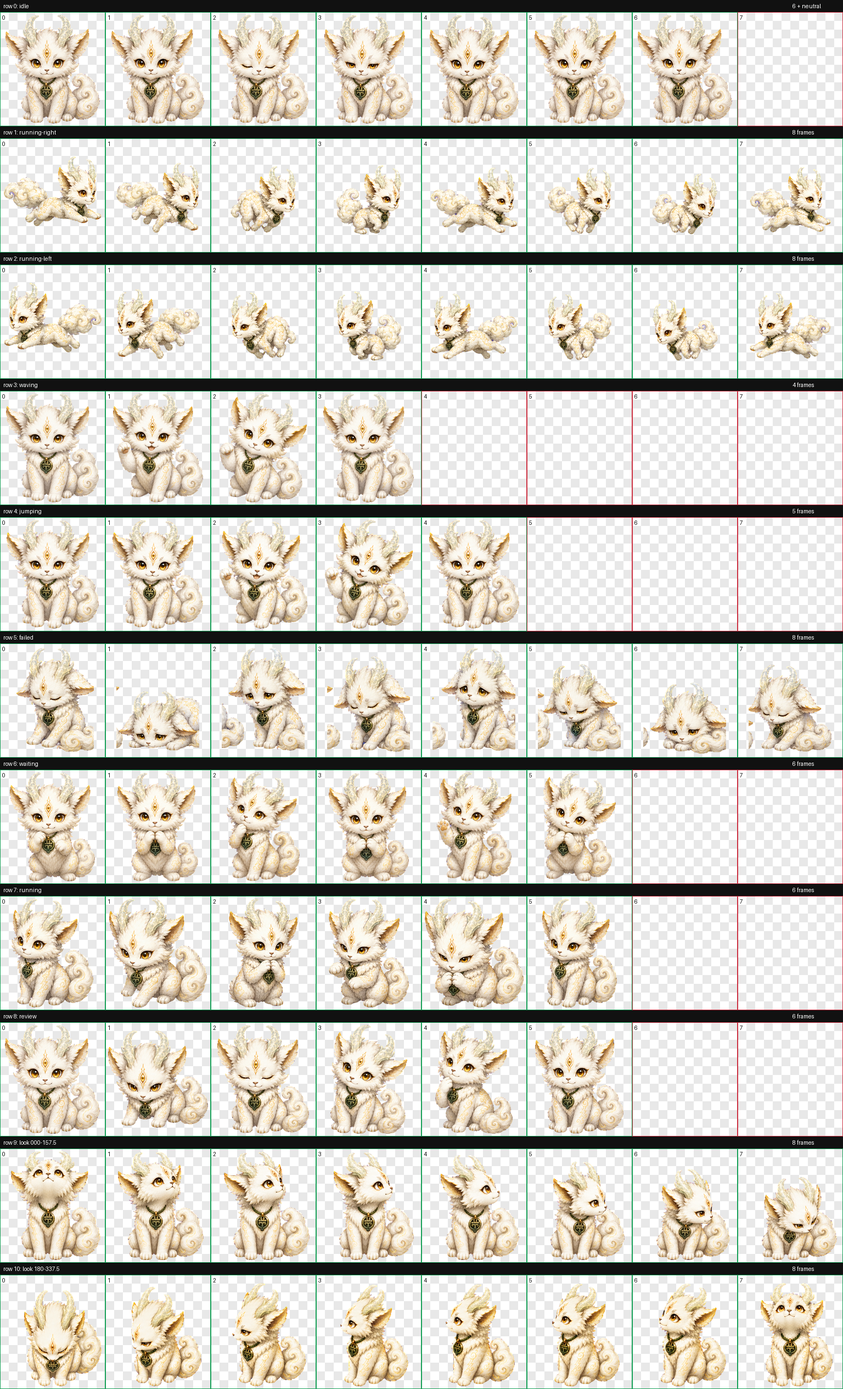
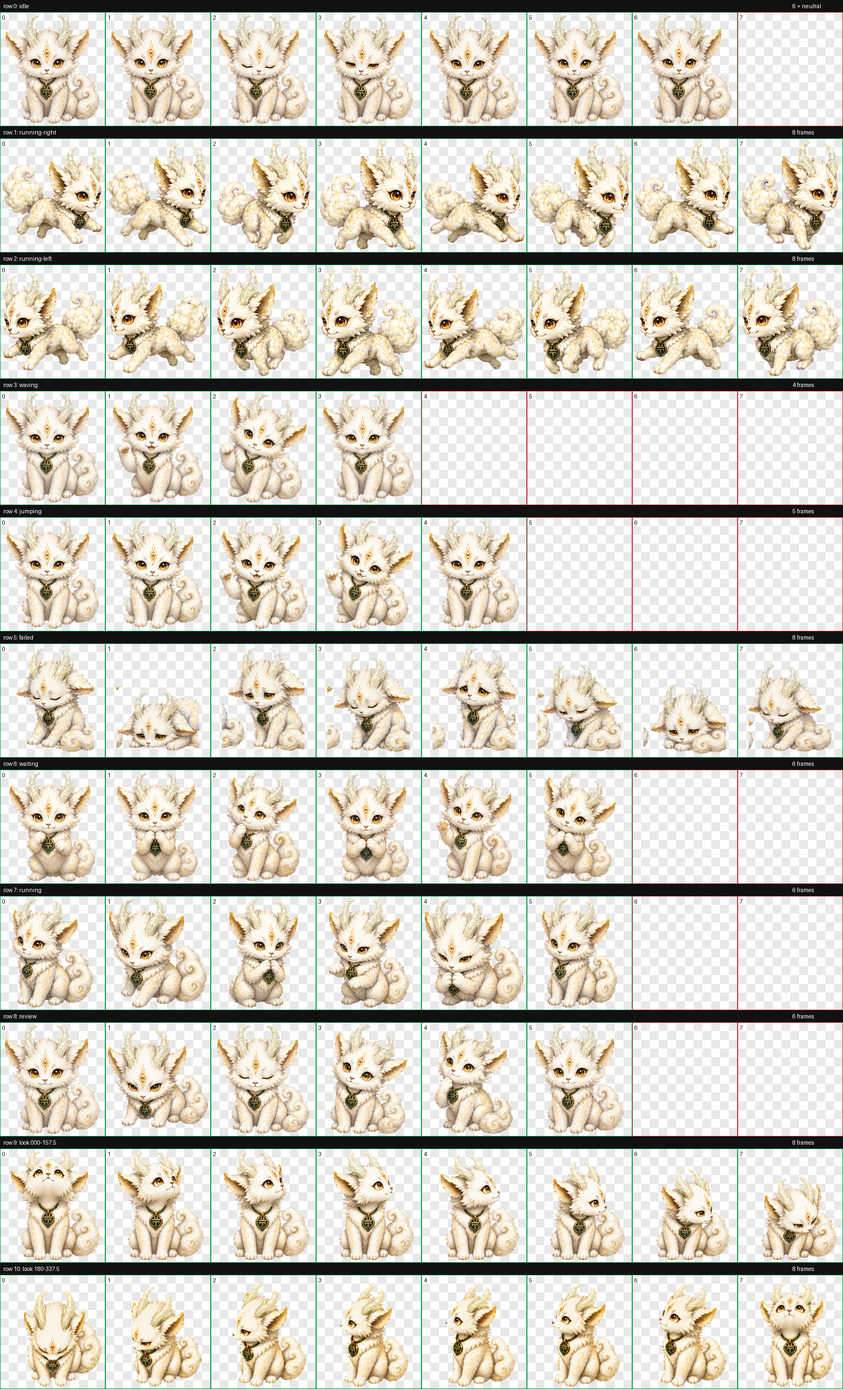
fix: align Baize side-run scale

Changed region(s): [[0.0, 0.0937, 1.0, 0.281]]

diff --git a/README.md b/README.md
@@ -2,6 +2,8 @@
 
 Codex 自定义桌宠仓库。目前收录的是新版 **白泽阿衡**：一只雪白、蓬松、带月白玉角和琥珀金眼的幼年白泽。
 
+![白泽阿衡侧跑](docs/images/baize-aheng-running-right.gif)
+
 ![白泽阿衡触碰回应](docs/images/baize-aheng-hover-response.gif)
 
 ## 白泽阿衡
@@ -10,7 +12,8 @@ Codex 自定义桌宠仓库。目前收录的是新版 **白泽阿衡**：一只
 - 图集规格：Codex v2，`1536×2288`，`8×11`，RGBA WebP
 - 视觉特征：绒毛层次、珍珠釉面淡金纹、额心神目、墨绿色玉牌和祥云尾
 - 鼠标回应：先停顿并竖耳，再抬爪招呼，最后稳定回到坐姿
-- 跑动与触碰动作均已检查头身比例和尺寸连续性
+- 侧跑体量约为正面高度的 97%、可见面积的 93%，切换方向时不再明显缩小
+- 祥云尾保持蓬松上扬，与身体之间保留空气感；跑动与触碰动作均已检查尺寸连续性
 
 [查看完整动作图集](docs/images/baize-aheng-contact-sheet.png) · [查看验证摘要](qa/validation.json)
 
